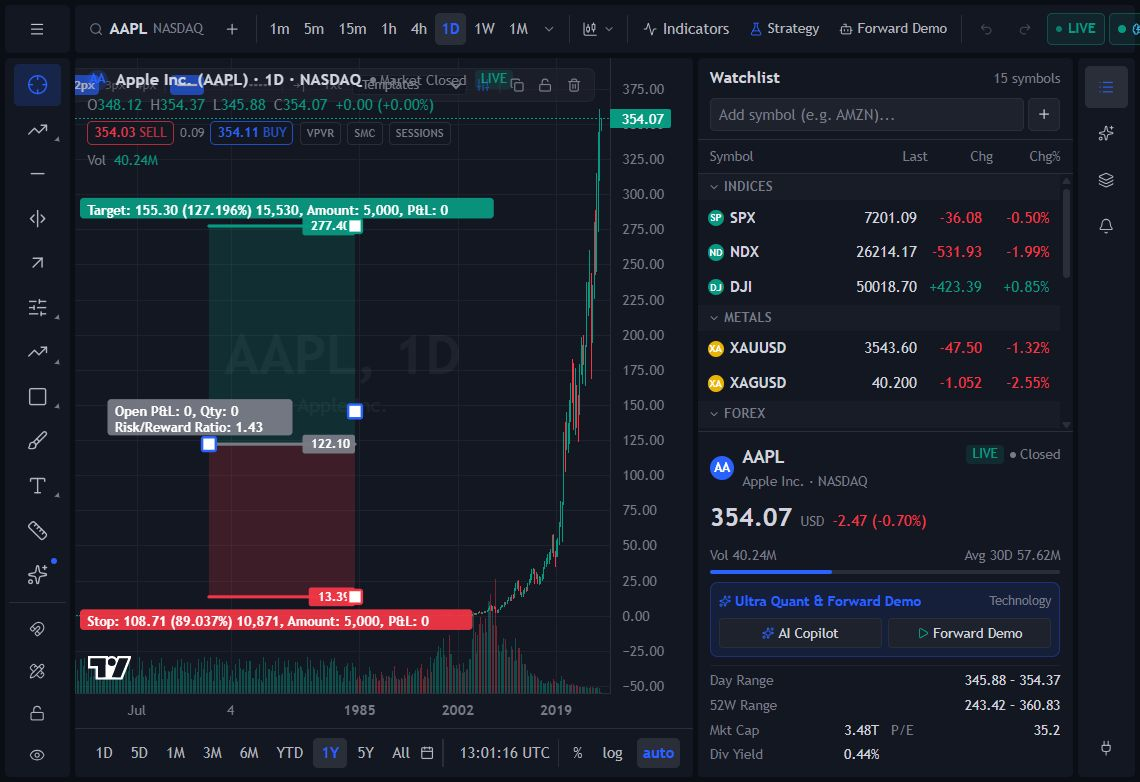
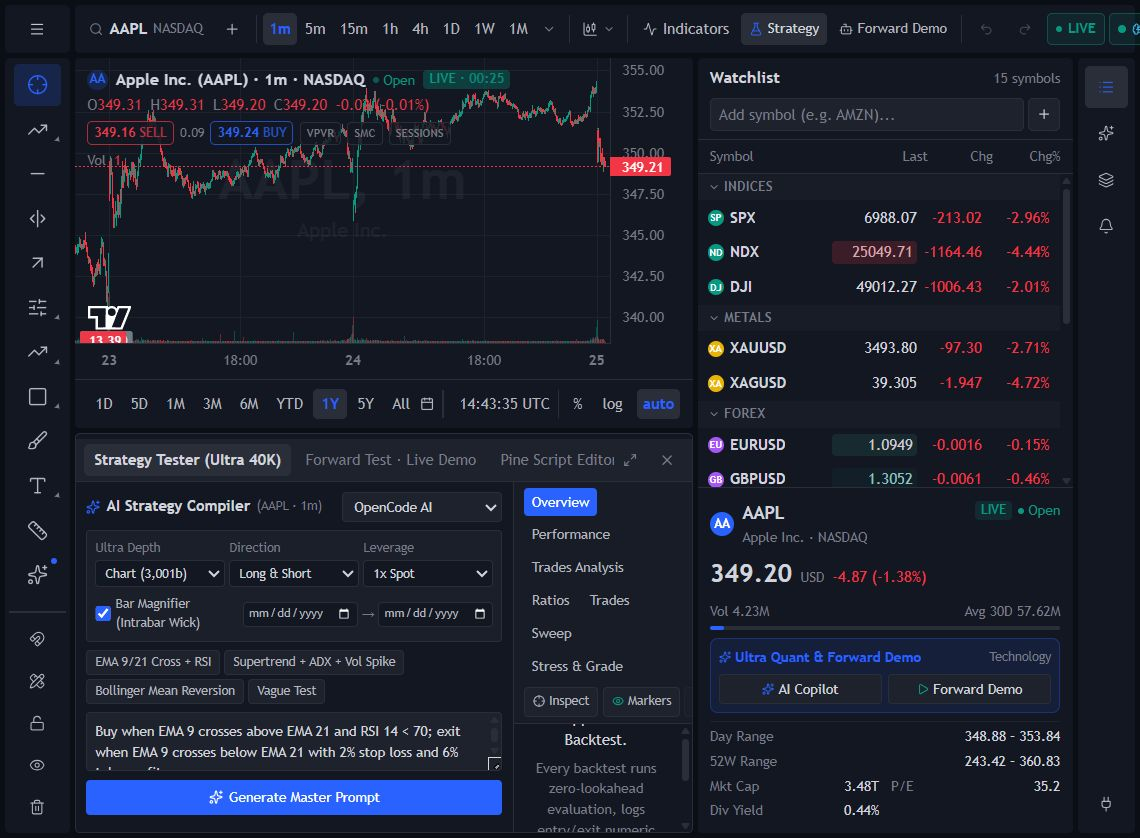
docs: replace preview image and add free-alternative tagline

diff --git a/README.md b/README.md
@@ -1,12 +1,12 @@
 # TradingView is over.
 
+> **Why pay for TradingView when you have a more advanced free alternative?**
+
 > **PUBLIC BETA** — This is the beta build. The **full-fledged version drops when this repo hits 10K stars**. Star it, watch it, and you will get the complete release first.
 
 An independent, open-source charting and AI analytics terminal with a production-grade drawing engine. Built from the ground up to make the Long/Short Position tools behave the way traders actually expect: precise brackets, real position sizing, TradingView-style stats, and drawings that survive a refresh.
 
-![Beta preview](docs/preview.jpg)
-
-![GBPUSD 1h with SMC zones and live candles](docs/screenshot-smc.jpg)
+![AAPL 1m with Strategy Tester](docs/preview.jpg)
 
 ---
 
